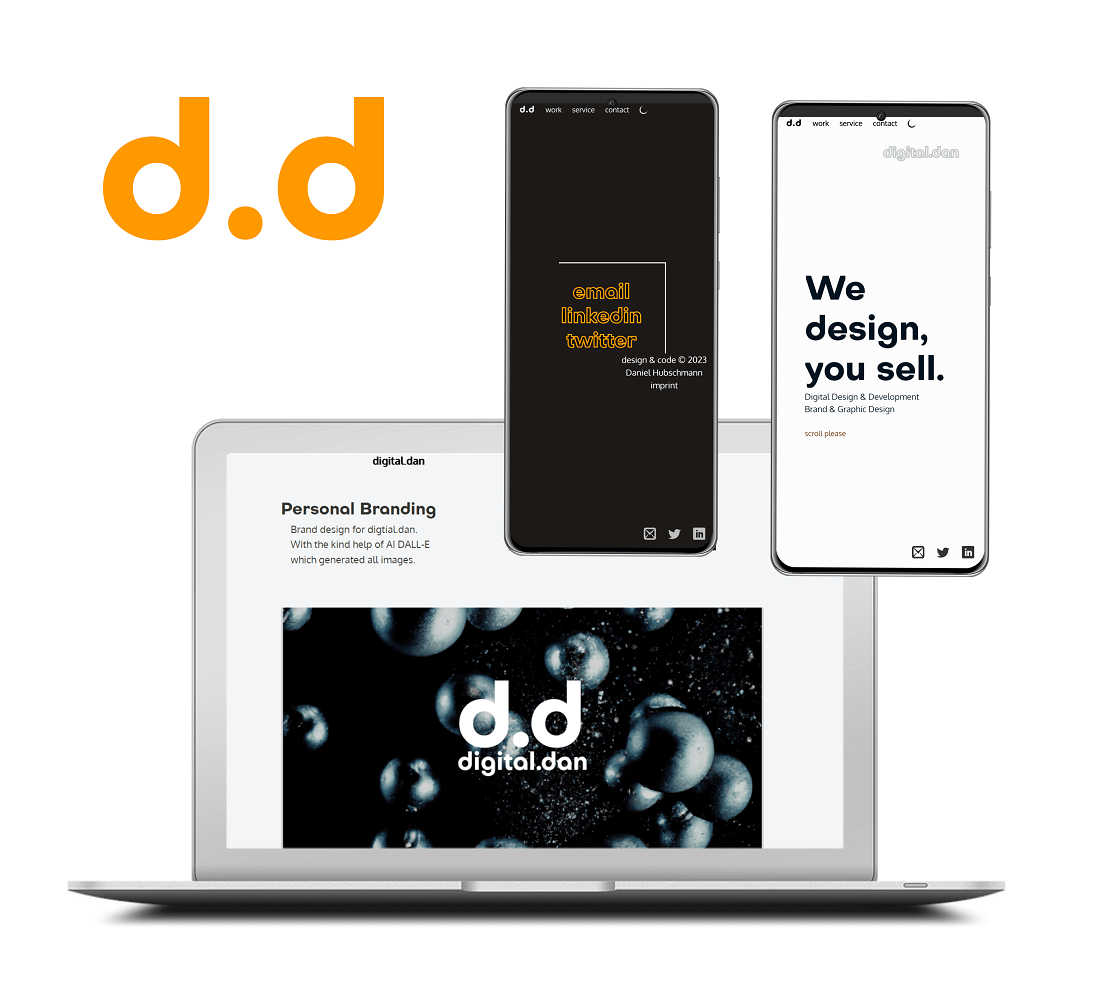
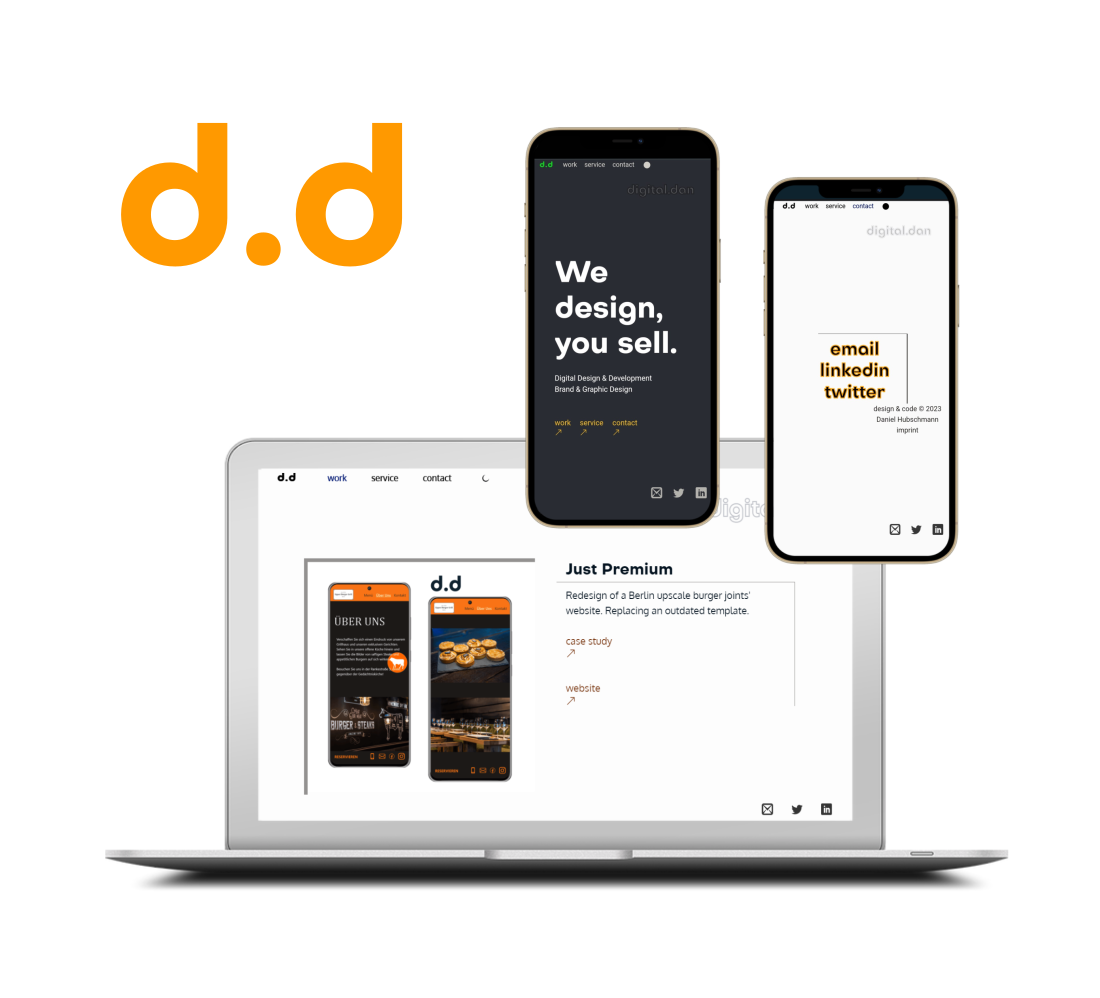
next overhaul

diff --git a/pages/Case2/DDbranding.js b/pages/Case2/DDbranding.js
@@ -1,4 +1,11 @@
 import Image from 'next/image'
+import Desktop from './desktop1.png'
+import Mobile from './mobile1.png'
+import Tablet from './tablet1.png'
+import Twi from './twi 23.png'
+import Li from './li 23.png'
+import AI from './ai1.png'
+import Back from '@components/Back'
 
 const DDbranding = () => {
 
@@ -35,12 +42,12 @@ const DDbranding = () => {
 
                 <article className="md:ml-[10vw] md:w-[70ch] p-4">
                     <p className="whitespace-normal paragraph font-[Oxygen] pt-[5vh]">
-                        <span className="font-bold">A new brand design for the post-covid restart:<br/></span>
+                        <span className="font-bold">A new brand design for the post-covid restart:<br /></span>
                         I used my personal style that can be best described as expressive minimalism, based on the teachings of the 20th century greats like Vignelli.
-                        <br/>
-                        <br/>
+                        <br />
+                        <br />
                         I also used AI for the first time. Agencies might fall behind if they don't start using its benefits now.
-                        </p>
+                    </p>
                     <br />
                     <br />
                     <ul className="list-disc paragraph">
@@ -49,7 +56,7 @@ const DDbranding = () => {
                         <li>Important information provided in short texts.</li>
                         <li>Several contact options throughout the page.</li>
                         <li>Some images and ideas provided by DALL-E.</li>
-                  
+
                     </ul>
 
                 </article>
@@ -108,18 +115,18 @@ const DDbranding = () => {
                     <h1 className="font-[octarine] header">
                         Logo
                     </h1>
-                    <h2 className="paragraph py-[10vh] md:ml-[10vw]">The circles the font uses will be part of the branding.</h2>
+                    <h2 className="paragraph py-[10vh] md:ml-[10vw]">The circles the font Octarine is made of will be part of public branding.</h2>
                     <div
-                        className="md:w-[55vw] h-auto flex flex-row
+                        className="md:w-[55vw] h-auto flex flex-col md:flex-row
           workheader md:ml-[10vw]"
                     >
-                        <div className="grid place-content-center p-2 h-[50vh] bg-[#f3f5f6] text-stone-900">
+                        <div className="grid place-content-center p-2 h-[50vh] flex-1 bg-[#f3f5f6] text-stone-900">
                             digital.dan
                         </div>
                         <div className="grid place-content-center p-2 h-[50vh] flex-1 bg-[#383630] text-zinc-100 tracking-widest">
                             d.d
                         </div>
-                    
+
 
                     </div>
                 </section>
@@ -127,22 +134,42 @@ const DDbranding = () => {
                     <h1 className="font-[octarine] header">
                         AI
                     </h1>
-                    <h2 className="paragraph py-[10vh] md:ml-[10vw]">DALL-E images using Octarines circles and round elements <br/>for social media branding.</h2>
-                    <div
-                        className="md:w-[55vw] h-auto flex flex-row
-          workheader md:ml-[10vw]"
-                    >
-                        <div className="grid place-content-center p-2 h-[50vh] bg-[#f3f5f6] text-stone-900">
-                            digital.dan
-                        </div>
-                        <div className="grid place-content-center p-2 h-[50vh] flex-1 bg-[#383630] text-zinc-100 tracking-widest">
-                            d.d
-                        </div>
-                    
-
-                    </div>
+                    <h2 className="paragraph py-[10vh] md:ml-[10vw]">DALL-E images using Octarines circles and round elements <br />for social media branding.</h2>
+                    <div className="md:w-[75%] flex justify-end my-[10vh] md:ml-[10vw]">
+                        <Image src={AI}
+                            alt="Image of AI generated images using circles and balls"
+                        /></div>
+                    <div className="md:w-[75%] flex justify-end my-[15vh] md:ml-[10vw]">
+                        <Image src={Twi}
+                            alt="Image of a Twitter profile header"
+                        /></div>
+                    <div className="md:w-[75%] flex justify-end mt-[15vh] md:ml-[10vw]">
+                        <Image src={Li}
+                            alt="Image of a LinkedIn profile header"
+                        /></div>
                 </section>
-               
+
+
+                <section className="h-auto w-[95vw] my-[5vh] md:my-[10vh] p-2">
+                    <h1 className="font-[octarine] header">
+                        Website
+                    </h1>
+
+                    <div className="md:w-[35%] flex justify-end my-[15vh] md:ml-[20vw]">
+                        <Image src={Mobile}
+                            alt="Image of a LinkedIn profile header"
+                        /></div>
+                    <div className="md:w-[75%] flex justify-end my-[15vh] mx-auto">
+                        <Image src={Desktop}
+                            alt="Image of a LinkedIn profile header"
+                        /></div>
+                    <div className="md:w-[55%] flex justify-end my-[15vh] md:ml-[10vw]">
+                        <Image src={Tablet}
+                            alt="Image of a LinkedIn profile header"
+                        /></div>
+
+                </section>
+                <Back />
             </main>
         </>
     );

diff --git a/pages/Work.js b/pages/Work.js
@@ -147,11 +147,8 @@ const Work = () => {
                         <Link href="https://asprototype.netlify.app/"
                         >
                             <a target={'_blank'}
-                                rel={'noreferrer noopener'}
-
-
-                                className="paragraph"
-                            >Website</a>
+                                rel={'noreferrer noopener'}>
+                                <h2 className="paragraph text-amber-900 dark:text-amber-400 cursor-pointer"> case study (new tab) <BsArrowUpRight /> </h2></a>
                         </Link>
 
                     </div>
@@ -180,12 +177,10 @@ const Work = () => {
                         <Link href="https://food-health-one-seven.vercel.app/"
                         >
                             <a target={'_blank'}
-                                rel={'noreferrer noopener'}
-
-
-                                className="paragraph"
-                            >Website</a>
-                        </Link></div>
+                                rel={'noreferrer noopener'}>
+                                <h2 className="paragraph text-amber-900 dark:text-amber-400 cursor-pointer"> website (new tab) <BsArrowUpRight /> </h2></a>
+                        </Link>
+                    </div>
                 </section>
 
 
@@ -209,16 +204,20 @@ const Work = () => {
 
                                 Digital design, development with Next.js, Framer Motion, Tailwind.  </motion.p>
                         </div><br />
+
                         <Link href="https://ddshowcase3.netlify.app/"
                         >
                             <a target={'_blank'}
-                                rel={'noreferrer noopener'}
-
-
-                                className="paragraph cursor-pointer"
-                            >Website</a>
-                        </Link></div>
+                                rel={'noreferrer noopener'}>
+                                <h2 className="paragraph text-amber-900 dark:text-amber-400 cursor-pointer"> website (new tab) <BsArrowUpRight /> </h2></a>
+                        </Link>
+                    </div>
+                
                 </section>
+            
+            
+          
+            
             </main>
         </>
     )

diff --git a/pages/Case1/Ubg.js b/pages/Case1/Ubg.js
@@ -1,14 +1,15 @@
 import Image from 'next/image'
+import Link from 'next/link'
 import Before from './before.png'
 import Laptop1 from './laptop1.png'
 import Laptop2 from './laptop2.png'
 import Laptop3 from './laptop3.png'
 import Laptop4 from './laptop4.png'
-
 import Mobile1 from './mobile1.png'
 import Mobile2 from './mobile2.png'
 import Mobile3 from './mobile3.png'
 import Bull from './bull.png'
+import Back from '@components/Back'
 
 const Ubg = () => {
 
@@ -29,8 +30,8 @@ const Ubg = () => {
 
                         <li>Art Direction</li>
                         <li>Graphic Design</li>
-                        <li>Web Design</li>
-                        <li>Web Development</li>
+                        <li>Digital Design</li>
+                        <li>Digital Development</li>
                     </ul>
 
 
@@ -121,7 +122,7 @@ const Ubg = () => {
                         <Image src={Laptop1}
                             alt="Image of the new site on a laptop"
                         /></div>
-                    <div className="md:w-[95%] flex justify-center my-[15vh]">
+                    <div className="md:w-[45%] flex justify-center md:ml-[10vw] my-[15vh]">
                         <Image src={Laptop4}
                             alt="Image of the new site on a laptop"
                         /></div>
@@ -134,7 +135,7 @@ const Ubg = () => {
                             alt="Image of the new site on a laptop"
                         /></div>
 
-                    <div className="md:w-[75%] flex justify-center my-[15vh]">
+                    <div className="md:w-[45%] flex justify-center my-[15vh] md:ml-[15vw]">
                         <Image src={Mobile3}
                             alt="Image of the new site on a laptop"
                         /></div>
@@ -148,7 +149,7 @@ const Ubg = () => {
                         /></div>
                 </section>
 
-
+                <Back />
 
             </main>
         </>

diff --git a/components/Back.js b/components/Back.js
@@ -1,0 +1,14 @@
+import Link from 'next/link'
+import { BsArrowUpRight } from 'react-icons/bs'
+const Back = () => {
+    return (
+<div className="mx-auto pb-[2rem]">
+        <Link href="/Work"
+        >
+            <a>
+                <h2 className="header text-stone-900 dark:text-stone-100 cursor-pointer"> back <BsArrowUpRight /> </h2></a>
+        </Link></div>
+    )
+}
+
+export default Back
